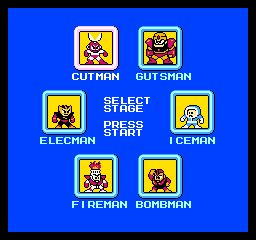
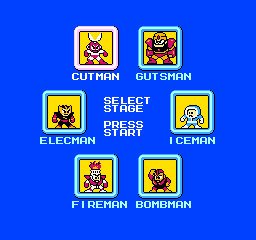
Remove black border from stage-select background

Changed region(s): [[0.0, 0.0, 1.0, 1.0]]

diff --git a/Assets/Stage Select/README.md b/Assets/Stage Select/README.md
@@ -20,10 +20,10 @@ Sprites
         └── spr_mm1_stage_select_bombman
 ```
 
-- Background: `spr_mm1_stage_select_background.png`, 256 x 240. Contains only black margins and blue field. Import as one sprite, origin (0,0).
+- Background: `spr_mm1_stage_select_background.png`, 256 x 240. Solid blue edge-to-edge; the emulator-captured black margins have been removed at the user's request. Import as one sprite, origin (0,0).
 - Frame: `spr_mm1_stage_select_frame_strip2.png`, 96 x 48. Import as TWO 48 x 48 subimages, origin (0,0). Subimage 0 = normal; subimage 1 = highlighted. Transparent centre allows the portrait to be drawn separately. Frame colours and clipped corners are preserved.
 - Portraits: six files under `Portraits/`, each 32 x 32, one subimage, origin (0,0). Yellow portrait backdrops are intentional and opaque. Do not remove the background.
-- `stage_select_preview.png`: assembled reference only, NOT a gameplay sprite to import. Initial Cut Man highlight phase. Including text colours, it differs from the sampled emulator image in zero RGB pixels.
+- `stage_select_preview.png`: assembled reference only, NOT a gameplay sprite to import. Initial Cut Man highlight phase. The interior matches the sampled emulator image; the former black outer margins are now blue to match the corrected background.
 
 For all imports: keep original dimensions; no trimming, smoothing, scaling or automatic background-colour removal. Preserve PNG alpha. Disable texture interpolation in the game settings.
 
